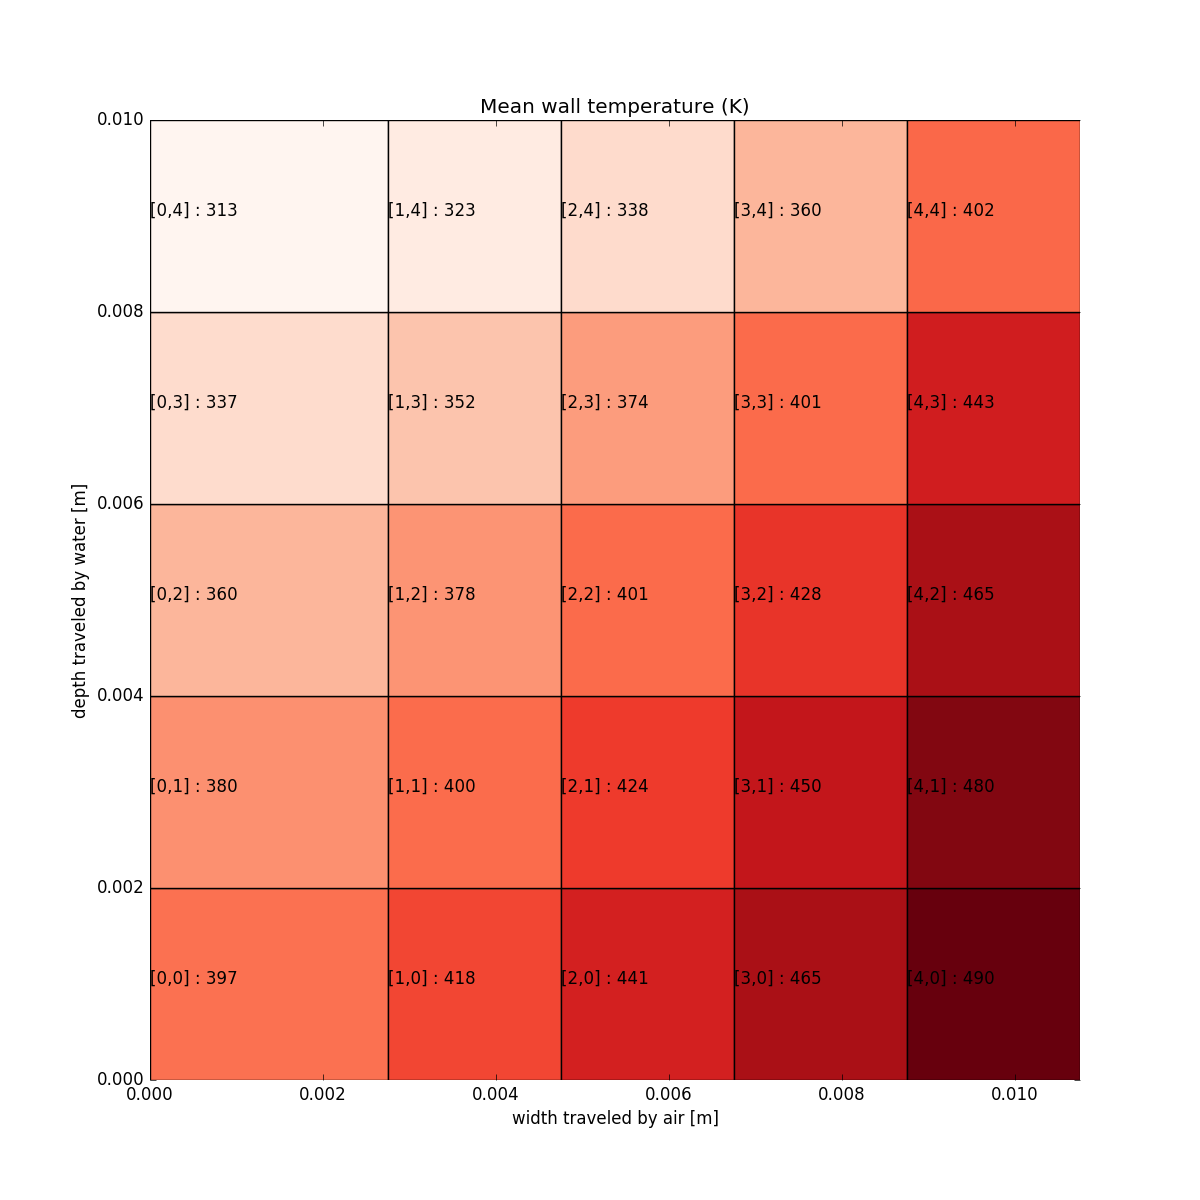
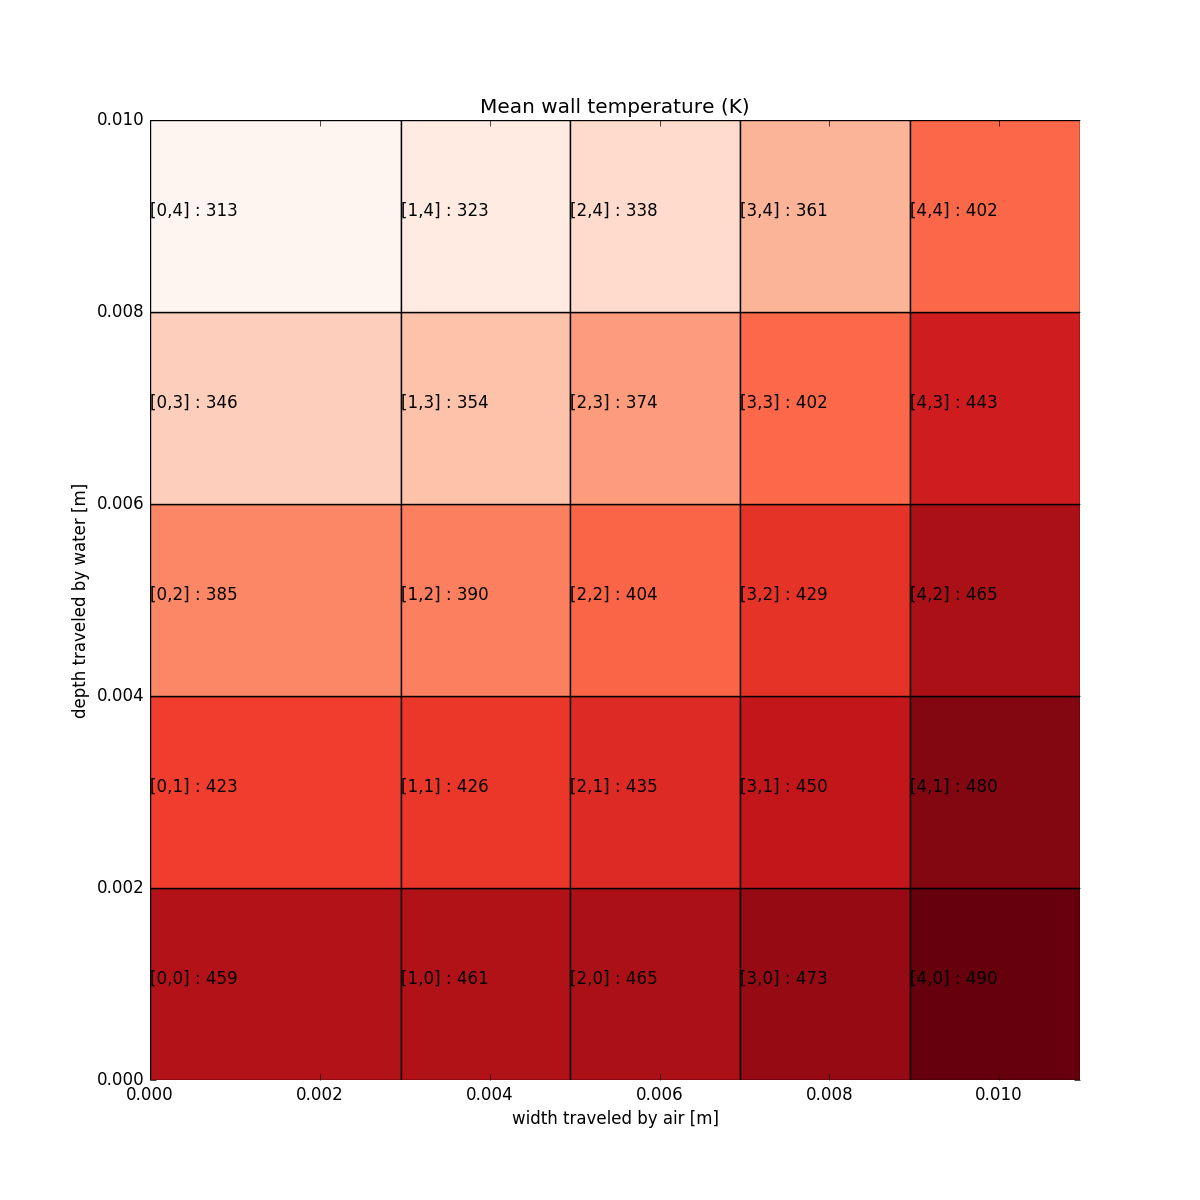
Added Reynolds analogy.

diff --git a/heatexchanger/rectpipe.py b/heatexchanger/rectpipe.py
@@ -32,22 +32,23 @@ class RectangularPipe(Model):
 
     Variables of length Nsegments
     -----------------------------
-    alpha                 [-]      Temperature ratio over segment
-    dT                    [K]      Change in fluid temperature over segment
-    dQ                    [W]      Magnitude of heat transfer over segment
-    T_avg                 [K]      Average temperature over segment
-    v_avg                 [m/s]    Average fluid velocity over segment
-    l                     [m]      Reference flow length
-    dh                    [m]      hydraulic diameter
-    V_seg                 [m^3]    Segment volume
-    A_seg                 [m^2]    Segment frontal area
-    h_seg                 [m]      Segment height
-    l_seg                 [m]      Segment flow length
-    Cf                    [-]      Coefficient of friction over segment 
-    Nu                    [-]      Nusselt number 
-    Re                    [-]      Reynolds number
-    dP                    [Pa]     segment pressure drop
-    Tr_int                [K]      wall-fluid interface temperature
+    alpha                 [-]       Temperature ratio over segment
+    dT                    [K]       Change in fluid temperature over segment
+    dQ                    [W]       Magnitude of heat transfer over segment
+    T_avg                 [K]       Average temperature over segment
+    v_avg                 [m/s]     Average fluid velocity over segment
+    l                     [m]       Reference flow length
+    dh                    [m]       hydraulic diameter
+    V_seg                 [m^3]     Segment volume
+    A_seg                 [m^2]     Segment frontal area
+    h_seg                 [m]       Segment height
+    l_seg                 [m]       Segment flow length
+    Cf                    [-]       Coefficient of friction over segment 
+    Nu                    [-]       Nusselt number 
+    Re                    [-]       Reynolds number
+    dP                    [Pa]      segment pressure drop
+    Tr_int                [K]       wall-fluid interface temperature
+    h                     [W/K/m^2] convective heat transfer coefficient
   
     Upper Unbounded
     ---------------
@@ -109,11 +110,12 @@ class RectangularPipe(Model):
                 dh*(w*h_seg)**0.5 == 2*A_seg] # hydraulic diameter with geometric mean approximation
 
         # Friction and heat transfer
-        friction = [dQ <= mdot*fluid.c*dT,
-                    Re == (fluid.rho*v_avg*l/fluid.mu),
+        friction = [dQ       <= mdot*fluid.c*dT,
+                    Re       == (fluid.rho*v_avg*l/fluid.mu),
                     Cf**5*Re == (0.059)**5,
-                    Pr == fluid.mu*fluid.c/fluid.k,
-                    Nu == 0.0296*Re**(4./5.)*Pr**(1./3.) # defining Nusselt number (fully turbulent)
+                    Pr       == fluid.mu*fluid.c/fluid.k,
+                    Nu       == 0.0296*Re**(4./5.)*Pr**(1./3.), # defining Nusselt number (fully turbulent)
+                    h*l        == Nu*fluid.k,
                     ]                
 
         return [fluid, temp, flow, geom, friction]

diff --git a/heatexchanger/layer.py b/heatexchanger/layer.py
@@ -87,14 +87,16 @@ class Layer(Model):
         for i in range(Nwaterpipes):
             for j in range(Nairpipes):
                 geom.extend([
-                        c.dQ[i,j] == waterpipes.dQ[i,j],
-                        c.dQ[i,j] == airpipes.dQ[j,i],
-                        c.T_r[i,j] == waterpipes.Tr_int[i,j],
-                        c.T_r[i,j] == airpipes.Tr_int[j,i],
+                        c.dQ[i,j]    == waterpipes.dQ[i,j],
+                        c.dQ[i,j]    == airpipes.dQ[j,i],
+                        c.T_r[i,j]   == waterpipes.Tr_int[i,j],
+                        c.T_r[i,j]   == airpipes.Tr_int[j,i],
                         c.T_hot[i,j] == waterpipes.T_avg[i,j],
                         c.T_cld[i,j] == airpipes.T_avg[j,i],
                         c.T_hot[i,j] >= c.T_r[i,j],
-                        c.T_r[i,j] >= c.T_cld[i,j],
+                        c.T_r[i,j]   >= c.T_cld[i,j],
+                        c.h_hot[i,j] == waterpipes.h[i,j],
+                        c.h_cld[i,j] == airpipes.h[j,i],
                         waterpipes.h_seg[i,j] >= 0.2*units('cm'),
                         airpipes.h_seg[j,i] >= 0.2*units('cm'),
                     ])
@@ -116,7 +118,7 @@ class Layer(Model):
             # HEAT EXCHANGE REQUIREMENT
 
             # TOTAL VOLUME REQUIREMENT
-            V_tot <= 1*units('cm^3'),
+            V_tot <= 2*units('cm^3'),
         ]
 
 

diff --git a/heatexchanger/hxarea.py b/heatexchanger/hxarea.py
@@ -5,7 +5,8 @@ class HXArea(Model):
     """
     Variables
     ---------
-    h_hx     10 [W/K/m^2]    coefficient of convection heat exchange
+    h_hot       [W/K/m^2]    convective heat transfer coefficient of liquid
+    h_cld      [W/K/m^2]    convective heat transfer coefficient of air
     T_hot       [K]          liquid temperature in cell
     T_cld       [K]          air temperature in cell
     T_r         [K]          wall temperature in cell
@@ -26,6 +27,7 @@ class HXArea(Model):
     def setup(self):
         exec parse_variables(HXArea.__doc__)
         with SignomialsEnabled():  # note that this turns into a posynomial
-            return [dQ <= (T_hot-T_cld)*h_hx*A_hx,
+            return [dQ <= (T_hot-T_r)*h_hot*A_hx,
+                    dQ <= (T_r-T_cld)*h_cld*A_hx,
                     A_hx == x_cell * y_cell]
 

diff --git a/heatexchanger/materials.py b/heatexchanger/materials.py
@@ -15,7 +15,7 @@ class Air(Model):
 
 
 class Water(Model):
-    """
+    """m.debug()
     Variables
     ---------
     rho     1000       [kg/m^3]    density of water
